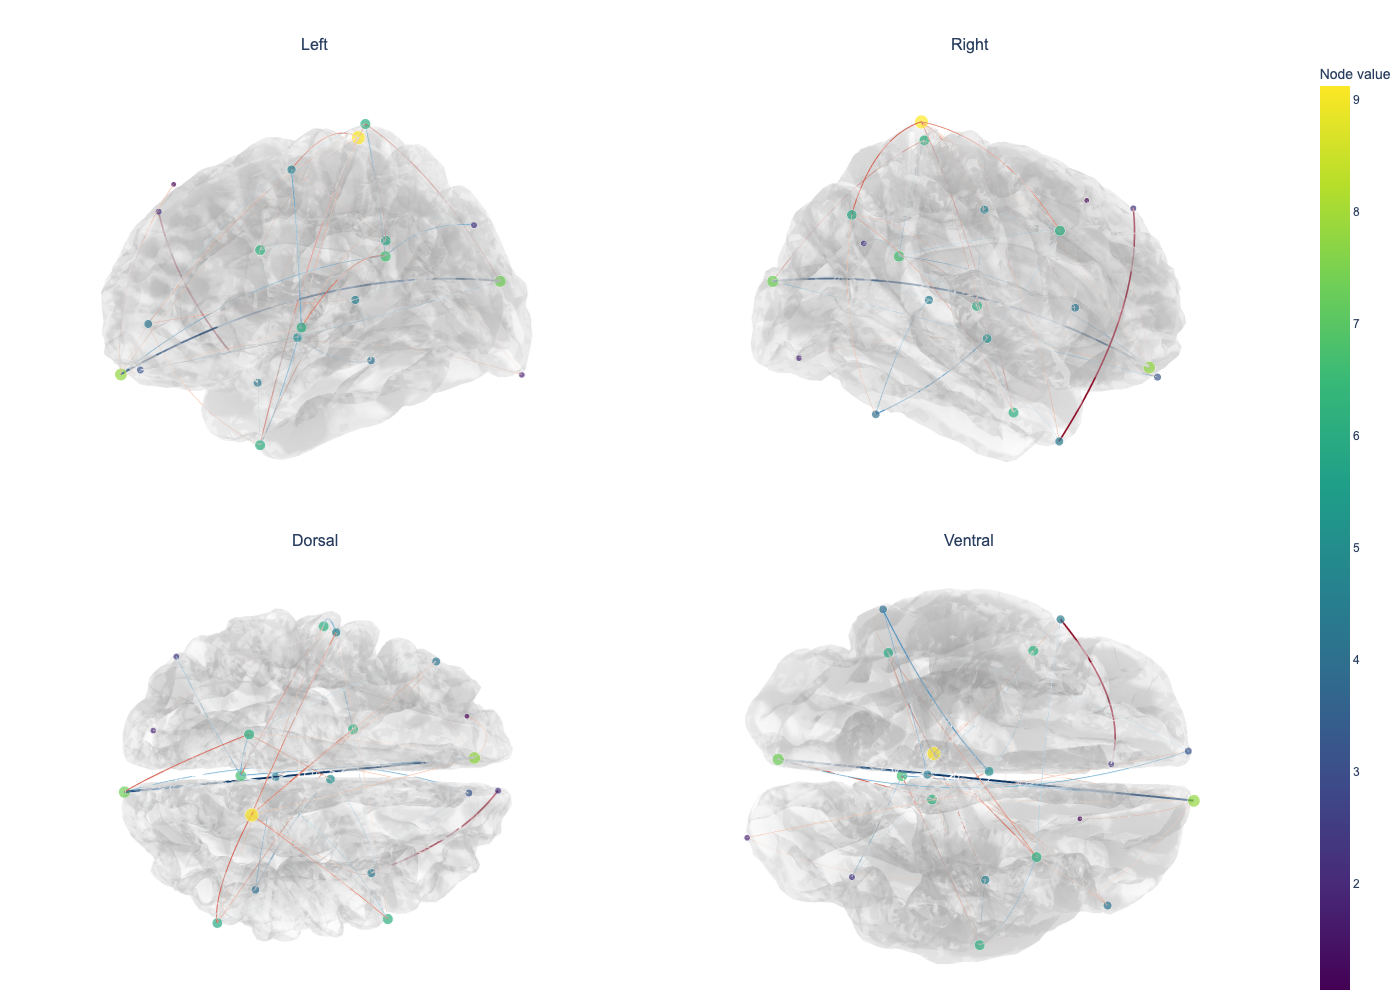
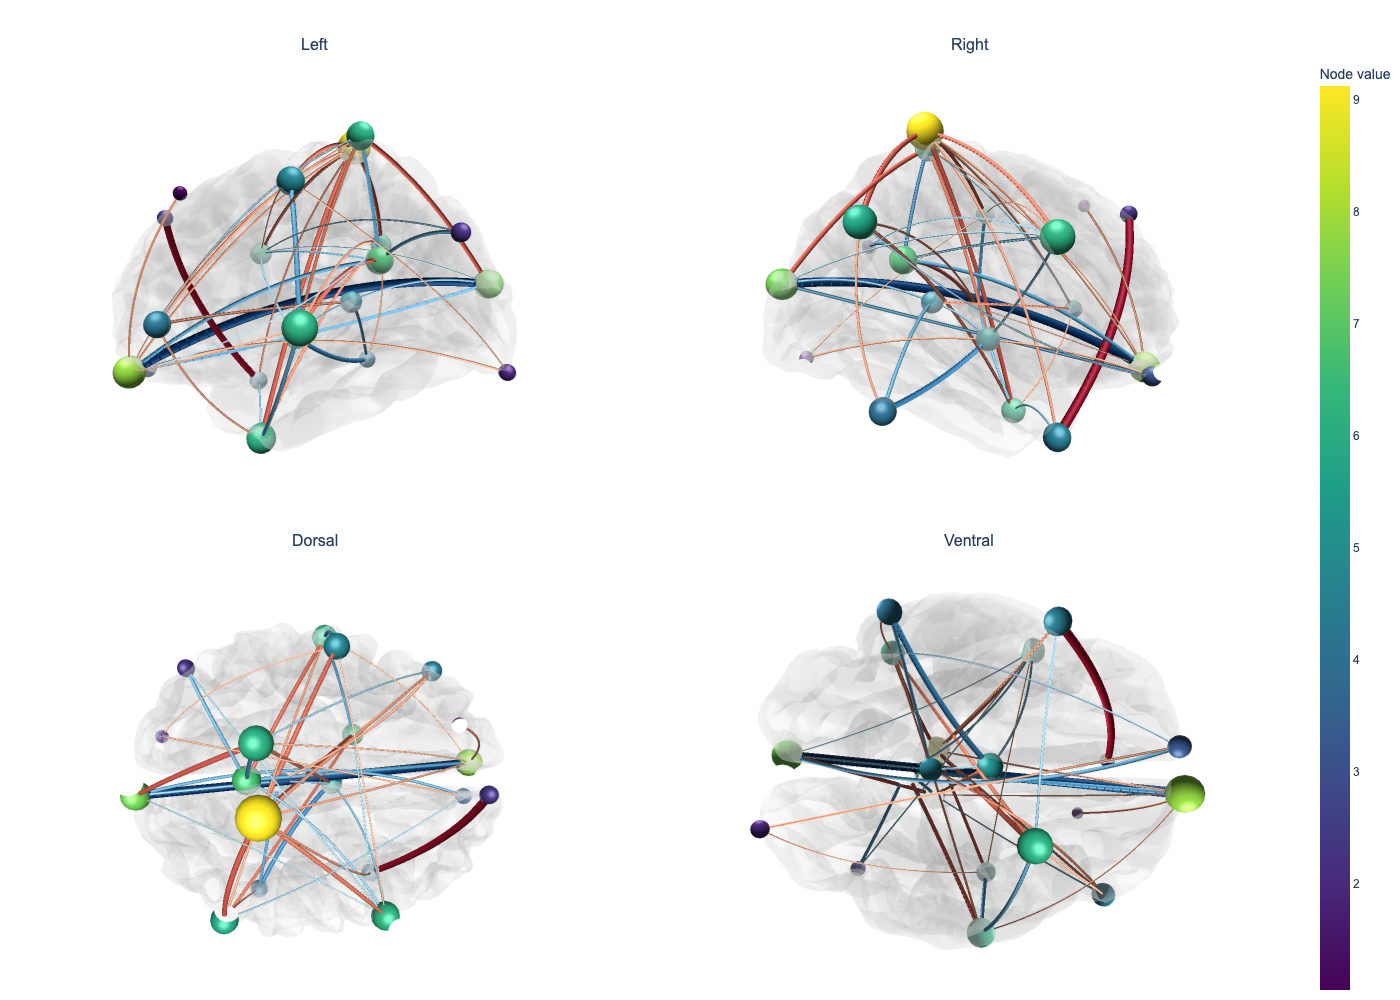
docs: show true 3D Plotly ball-and-stick output

diff --git a/tests/test_acceptance_scripts.py b/tests/test_acceptance_scripts.py
@@ -56,9 +56,15 @@ def write_valid_fixture(root: Path) -> None:
         '<svg xmlns="http://www.w3.org/2000/svg"><circle r="2"/></svg>',
         encoding="utf-8",
     )
-    html = "<html><body><script>Plotly.newPlot('x', [])</script></body></html>"
-    (root / "surface_interactive.html").write_text(html, encoding="utf-8")
-    (root / "nilearn_connectome.html").write_text(html, encoding="utf-8")
+    plotly_html = (
+        '<html><body><script>Plotly.newPlot("x", '
+        '[{"name":"Nodes"},{"name":"Edges"}], '
+        '{"meta":{"render_mode":"ball-and-stick"}})'
+        "</script></body></html>"
+    )
+    generic_html = "<html><body><script>Plotly.newPlot('x', [])</script></body></html>"
+    (root / "surface_interactive.html").write_text(plotly_html, encoding="utf-8")
+    (root / "nilearn_connectome.html").write_text(generic_html, encoding="utf-8")
     edges = [[0, 1, 0.5], [1, 2, -0.2]]
     (root / "edge_manifest.json").write_text(
         json.dumps(
@@ -147,6 +153,20 @@ def test_checker_accepts_nilearn_iframe_srcdoc_html(tmp_path: Path) -> None:
     )
     report = check_artifacts(root, strict=False)
     assert report["files_checked"] == len(REQUIRED)
+
+
+def test_checker_requires_ball_and_stick_contract_for_plotly_surface_html(
+    tmp_path: Path,
+) -> None:
+    root = tmp_path / "screen-space-plotly"
+    write_valid_fixture(root)
+    (root / "surface_interactive.html").write_text(
+        "<html><body><script>Plotly.newPlot('x', [])</script></body></html>",
+        encoding="utf-8",
+    )
+
+    with pytest.raises(AcceptanceError, match="ball-and-stick"):
+        check_artifacts(root, strict=False)
 
 
 def test_acceptance_geometry_is_bundled_fsaverage5_and_deterministic() -> None:

diff --git a/scripts/check_acceptance_artifacts.py b/scripts/check_acceptance_artifacts.py
@@ -71,7 +71,7 @@ def _check_svg(path: Path) -> None:
         raise AcceptanceError(f"{path.name} root element is not SVG")
 
 
-def _check_html(path: Path) -> None:
+def _check_html(path: Path, *, require_ball_stick: bool = False) -> None:
     content = path.read_text(encoding="utf-8", errors="replace").lower()
     full_document = "<html" in content and "<body" in content
     nilearn_iframe = (
@@ -84,6 +84,14 @@ def _check_html(path: Path) -> None:
         raise AcceptanceError(f"{path.name} has no valid HTML/body structure")
     if "plotly" not in content and "nilearn" not in content and "connectome" not in content:
         raise AcceptanceError(f"{path.name} does not contain a Plotly/Nilearn connectome")
+    if require_ball_stick:
+        compact = "".join(content.split())
+        required = ('"name":"nodes"', '"name":"edges"', '"render_mode":"ball-and-stick"')
+        missing = [token for token in required if token not in compact]
+        if missing:
+            raise AcceptanceError(
+                f"{path.name} is missing the true 3D ball-and-stick contract: {missing}"
+            )
 
 
 def _canonical_edges(edges: Any) -> list[tuple[int, int, float]]:
@@ -193,7 +201,10 @@ def check_artifacts(directory: str | Path, *, strict: bool = True) -> dict[str, 
     for name in SVG_FILES:
         _check_svg(root / name)
     for name in HTML_FILES:
-        _check_html(root / name)
+        _check_html(
+            root / name,
+            require_ball_stick=name == "surface_interactive.html",
+        )
     edge_count = _check_manifest(root / "edge_manifest.json")
     _check_environment(root / "environment.txt")
     benchmark = _check_benchmark(root / "benchmark.json", strict=strict)

diff --git a/tests/test_packaging.py b/tests/test_packaging.py
@@ -96,6 +96,24 @@ def test_readmes_document_installation_from_pypi(
     )
 
 
+@pytest.mark.parametrize(
+    ("filename", "physical_size_text"),
+    (
+        ("README.md", "physical diameters in millimetres"),
+        ("README.zh-CN.md", "物理直径，单位为毫米"),  # noqa: RUF001
+    ),
+)
+def test_readmes_document_true_3d_plotly_ball_and_stick(
+    filename: str,
+    physical_size_text: str,
+) -> None:
+    readme = (ROOT / filename).read_text(encoding="utf-8")
+
+    assert "ball-and-stick" in readme
+    assert "Mesh3d" in readme
+    assert physical_size_text in readme
+
+
 def test_readme_has_quickstart_gallery_all_backends_and_release_commands() -> None:
     readme = (ROOT / "README.md").read_text(encoding="utf-8")
 

diff --git a/README.zh-CN.md b/README.zh-CN.md
@@ -93,7 +93,9 @@ python -m pip install -e ".[dev,interactive,export]"
 请根据希望回答的问题选择视图：
 
 1. Plotly surface 是**首选的交互式解剖视图**。它保留 surface-RAS 几何，
-   可以自由旋转，并可用于判断连接位于皮层前方还是后方。
+   可以自由旋转，并可用于判断连接位于皮层前方还是后方。节点与连接由
+   `Mesh3d` 球体和管体组成真正的三维 ball-and-stick 网络，而不是屏幕空间中
+   大小不随透视变化的圆点和线条。
 2. 在具有有效 MNI 坐标时，Nilearn 玻璃脑是**首选的静态连接概览**。它不受
    皮层遮挡影响，最便于比较完整的全脑连接图。
 3. Matplotlib 和原生 Nilearn surface 是**补充性的固定视角解剖背景**。
@@ -566,7 +568,8 @@ HTML 默认嵌入 JavaScript，因此可以离线打开。`image_width`、`image
 `image_scale` 控制 Plotly 静态导出，但不会改变交互数据。Plotly 静态输出默认
 为一个双列拼图，其中包含 `left`、`right`、`dorsal` 和 `ventral` 场景；可以用
 `static_views` 自定义顺序，或传入 `static_views=None`，只导出单个交互式 `view`
-相机。
+相机。对于该后端，`node_size_range` 与 `edge_width_range` 控制物理直径，单位为毫米；
+因此旋转相机或改变透视时，球体与管体的视觉大小会自然变化。
 
 两个交互式输出回答不同的问题。Plotly `surface` 后端保留皮层解剖结构并支持
 显式逐顶点 overlay；原生 Nilearn `html` 后端调用 `view_connectome`，由于没有
@@ -683,5 +686,6 @@ MNE_DONTWRITE_HOME=true MPLCONFIGDIR=/private/tmp/pyconnviz-mpl \
 Matplotlib 和原生 Nilearn 的连接是三维线条，而不是真实管道。它们随视角变化的
 alpha 只是光学深度提示，并不会执行真实的网格遮挡，也不得被解释为额外的数据
 变量。单半球面板会省略跨半球连接，全脑面板则包含这些连接。Plotly 每条连接
-使用一个 trace，因此大型连接集合会生成较大的 HTML 文件。首个版本专注于皮层
-ROI，尚不提供完整的混合源或皮层下 surface 渲染。
+不再单独使用一个 trace，而是将节点与连接合并为两个 `Mesh3d` trace；但管体
+几何量仍会随边数和 `edge_samples` 增长，因此稠密网络会生成较大的 HTML 文件。
+首个版本专注于皮层 ROI，尚不提供完整的混合源或皮层下 surface 渲染。

diff --git a/README.md b/README.md
@@ -98,7 +98,9 @@ Choose the view for the question being answered:
 
 1. The Plotly surface is the **primary interactive anatomical view**. It keeps
    surface-RAS geometry, rotates freely, and lets you inspect whether an edge
-   lies in front of or behind the cortex.
+   lies in front of or behind the cortex. Nodes and edges are a true-3D
+   ball-and-stick network built from `Mesh3d` spheres and tubes, rather than
+   screen-space markers and lines.
 2. The Nilearn glass brain is the **primary static connectivity overview**
    when valid MNI coordinates are available. It avoids cortical occlusion and
    makes the complete whole-brain graph easiest to compare.
@@ -599,7 +601,10 @@ Plotly HTML uses embedded JavaScript by default so it can be opened offline.
 without changing the interactive data. Static Plotly output defaults to one
 two-column montage containing `left`, `right`, `dorsal`, and `ventral` scenes;
 customize that order with `static_views`, or pass `static_views=None` to export
-only the singular interactive `view` camera.
+only the singular interactive `view` camera. For this backend,
+`node_size_range` and `edge_width_range` set physical diameters in millimetres;
+perspective and camera rotation therefore change the apparent size of the
+spheres and tubes naturally.
 
 The two interactive outputs answer different questions. The Plotly `surface`
 backend preserves cortical anatomy and supports explicit per-vertex overlays;
@@ -735,6 +740,8 @@ Matplotlib and native Nilearn edges are 3D lines rather than physical tubes.
 Their view-dependent alpha is an optical depth cue only; it does not perform
 physical mesh occlusion and must not be interpreted as an additional data
 variable. Single-hemisphere panels omit cross-hemisphere edges; whole-brain
-panels include them. Plotly uses one trace per edge and large edge sets produce
-large HTML files. The first release focuses on cortical ROIs and does not
-provide complete mixed-source or subcortical surface rendering.
+panels include them. Plotly merges nodes and connections into two `Mesh3d`
+traces, but dense graphs still produce large HTML files because tube geometry
+grows with the edge count and `edge_samples`. The first release focuses on
+cortical ROIs and does not provide complete mixed-source or subcortical
+surface rendering.
